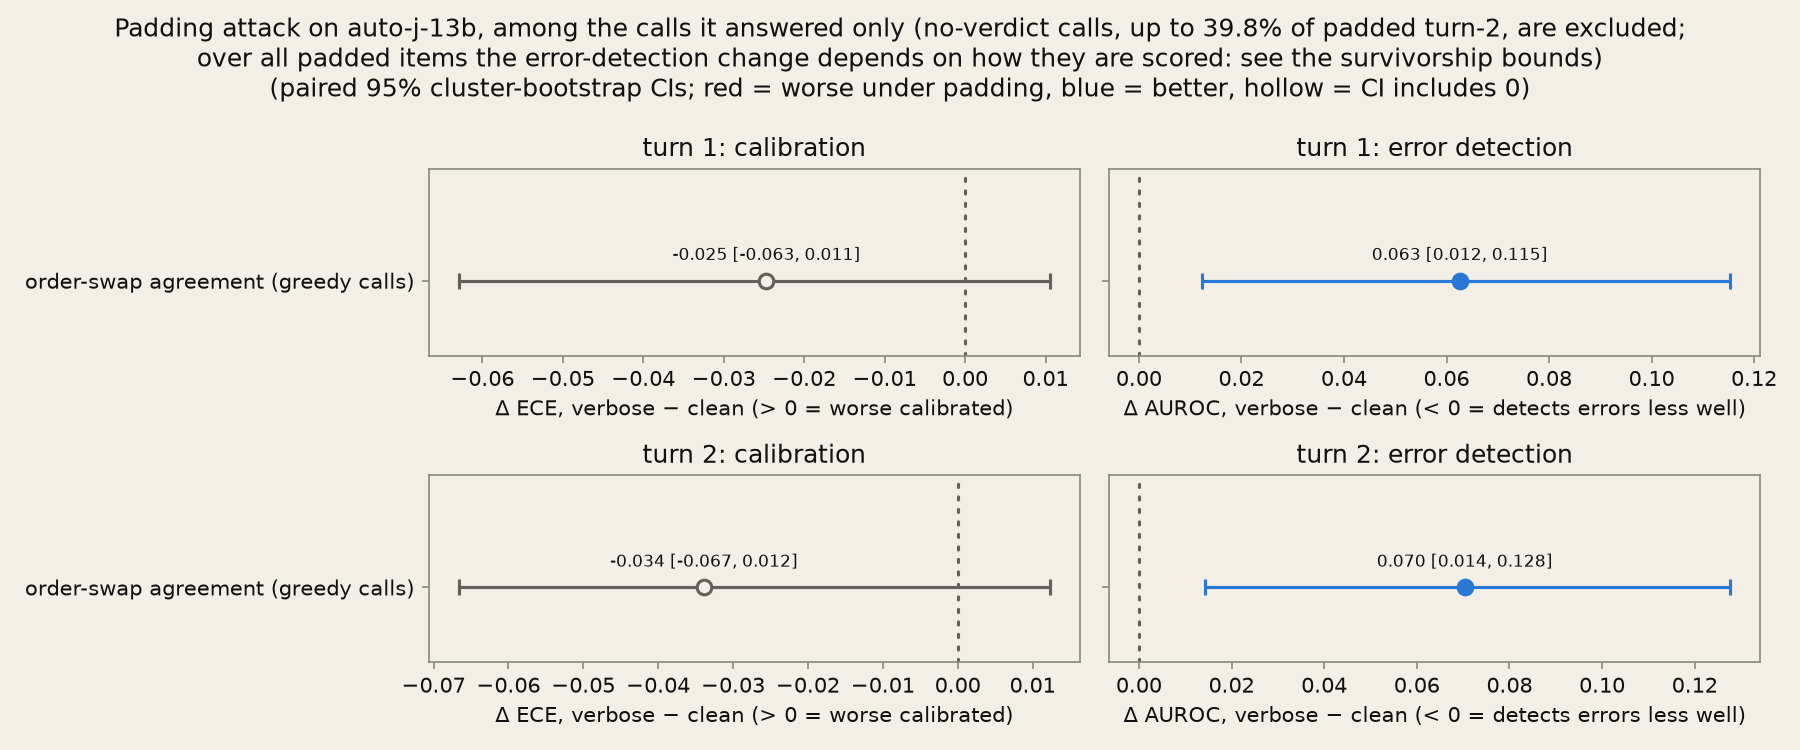
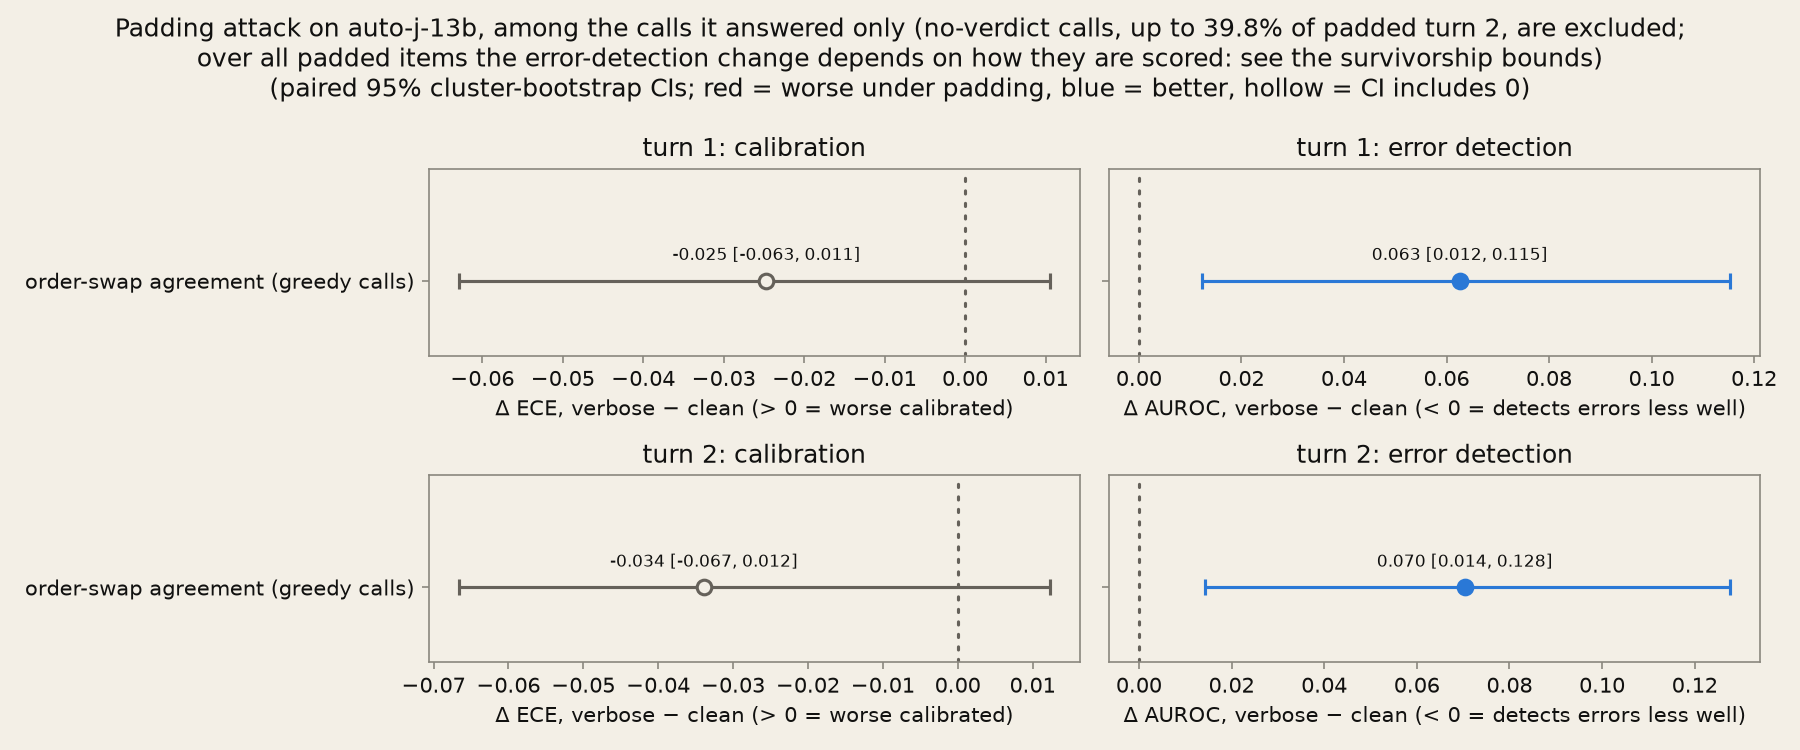
figure text updates

Changed region(s): [[0.0622, 0.0307, 0.9333, 0.0613]]

diff --git a/analysis/rq3.py b/analysis/rq3.py
@@ -28,7 +28,7 @@ import pandas as pd
 from analysis.rq1 import CALIBRATION_FORM, SIGNALS, load_rq1_items
 from src.boot import cluster_bootstrap, paired_cluster_bootstrap
 from src.config import Config
-from src.metrics import auroc_error, ece
+from src.metrics import auroc_error, brier, ece, overconfidence_gap
 from src.plots import judge_name, plot_confidence_gap, plot_verbosity_deltas
 
 RQ3B_SIGNALS = ["conf_verb", "conf_lp", "conf_bpe"]  # conf_sc dropped, D21
@@ -147,8 +147,19 @@ def compute_signal_rq3b_metrics(
         uncertainty = 1 - df[signal].to_numpy(dtype=float)
         return auroc_error(uncertainty, df[correct_col].to_numpy())
 
+    # Two calibration measures that use no bins, so a ΔECE finding can be
+    # checked against the binning (ECE moves with the bin count).
+    def _overconfidence_gap(df: pd.DataFrame) -> float:
+        return overconfidence_gap(df[calibration_col].to_numpy(dtype=float), df[correct_col].to_numpy())
+
+    def _brier(df: pd.DataFrame) -> float:
+        return brier(df[calibration_col].to_numpy(dtype=float), df[correct_col].to_numpy())
+
     result = {}
-    for name, fn in [("ece", _ece), ("accuracy", _accuracy), ("auroc", _auroc)]:
+    for name, fn in [
+        ("ece", _ece), ("accuracy", _accuracy), ("auroc", _auroc),
+        ("overconfidence_gap", _overconfidence_gap), ("brier", _brier),
+    ]:
         diff, ci_low, ci_high = paired_cluster_bootstrap(
             verbose_items, clean_items, fn, "question_id", n=2000, seed=seed
         )

diff --git a/analysis/rq7.py b/analysis/rq7.py
@@ -235,11 +235,15 @@ def main_verbosity(config_path: str) -> None:
     table.to_csv(table_path, index=False)
     print(f"Wrote {len(table)} rows to {table_path}")
 
+    # The title states how much of the padded data is missing, read from the
+    # calls themselves so it cannot drift from the no-verdict table.
+    failures = no_verdict_table(pd.read_parquet(config.paths.calls_parquet))
+    worst = failures[failures["condition"] == "verbose"].sort_values("rate").iloc[-1]
     for dark in (False, True):
         plot_verbosity_deltas(
             [verbosity_panel(t, f"turn {turn}") for turn, t in table.groupby("turn", sort=True)],
             title=("Padding attack on auto-j-13b, among the calls it answered only "
-                   "(no-verdict calls, up to 39.8% of padded turn-2, are excluded;\n"
+                   f"(no-verdict calls, up to {worst['rate']:.1%} of padded turn {int(worst['turn'])}, are excluded;\n"
                    "over all padded items the error-detection change depends on how they are scored: "
                    "see the survivorship bounds)"),
             filename=f"rq7_verbosity_deltas_{config.model_slug}.png",

diff --git a/REPRODUCE.md b/REPRODUCE.md
@@ -153,4 +153,5 @@ Because the NUTS seeds are fixed, the Bayesian results came out bit-identical on
 - **What changed:** the vacuum table gained its confidence-gap columns, with the existing values unchanged. Two outputs are new: `multivote_sensitivity_qwen2.5_7b_instruct.csv` and the two-call convergence figure.
 - **What stayed the same:** every other tracked output was byte-identical, including all RQ5 tables, and `site/data/` was unchanged.
 - **Figure wording:** titles and legends were brought in line with the report's current stance. Each figure's own task was rerun: `rq4` (`h4`, `calibration`, `bayesian_comparison`), `rq3`, `human_disagreement`, `rq6`/`rq7` (`position_swap`, and `verbosity` for rq7) and `auto_accept`. Only figure files changed; every CSV is byte-identical.
+- **Padding tables:** the RQ3 table gained the bin-free padding deltas (overconfidence gap, Brier) that REPORT quotes. So did the three tables built with the same function (`rq6_verbosity`, `rq7_verbosity`, `rq7_survivorship`). Every existing column is unchanged. The auto-j padding figure's title now reads its no-verdict rate from the data rather than from a fixed number.
 - **Three-judge figure:** `analysis.compare_judges` was rerun after a title correction. The old title, "same items", wrongly implied the three judges share a population. Only `judge_comparison.png` and its dark copy changed; `judge_comparison.csv` is byte-identical.

diff --git a/REPORT.md b/REPORT.md
@@ -739,7 +739,7 @@ ECE shifts are numerically negative but not significant. The ECE interval is
 skewed (most bootstrap replicates fall below the point), and ECE itself moves with
 the bin count, so the finding was checked on two measures that use no bins: the
 paired change in the overconfidence gap, +0.031 [0.012, 0.051], and in the Brier
-score, +0.018 [0.005, 0.032]. Both worsen significantly, so the conclusion does
+score, +0.018 [0.005, 0.032] (`rq3_table_qwen2.5_7b_instruct.csv`). Both worsen significantly, so the conclusion does
 not rest on the binning. Read together with RQ3a:
 position bias barely moves confidence at all (a ~2pp gap); verbosity moves accuracy
 even less, but erodes exactly the signal — cross-order agreement — that RQ1/RQ2
@@ -1260,7 +1260,7 @@ existing `d_human` machinery, not new statistical infrastructure.*
 (`src/data.py`), so *high* `d_human` means *strong consensus* (votes near
 0% or 100% for one side), not disagreement; the disagreement zone is *low*
 `d_human`, near the 50/50 split. This matches D23's framing and H4's result
-(the predictor's edge grows with human *consensus*). The test is therefore:
+(the predictor's edge is larger where humans *agreed*). The test is therefore:
 does aleatoric correlate *negatively* with `d_human` (high aleatoric where
 consensus is weak)?
 

diff --git a/DECISIONS.md b/DECISIONS.md
@@ -771,5 +771,14 @@ down before any of the checks were run.
   R-hat 1.008, lowest ESS 617. The figure is
   `rq5_bayesian_convergence_two_call_qwen2.5_7b_instruct.png`.
 
+**Also found in the final audit.** REPORT and README quote two bin-free checks on
+the padding result for `conf_bpe`:
+- the paired change in the overconfidence gap, +0.031 [0.012, 0.051];
+- the paired change in the Brier score, +0.018 [0.005, 0.032].
+
+No tracked code produced them. `analysis/rq3.py` now computes both deltas for every
+signal, with the same paired bootstrap as ΔECE. They reproduce exactly, and the
+table's existing columns are unchanged.
+
 Where: `src/perturb.py`, `src/vacuum_test.py`, `analysis/vacuum.py`,
-`analysis/rq5.py`.
+`analysis/rq3.py`, `analysis/rq5.py`.

diff --git a/README.md b/README.md
@@ -82,7 +82,8 @@ three judges, and it is interactive in section 04 of the site.
      AUROC on padded ones. Combining the signals buys no robustness.
    - An abstention policy tuned on clean data would lose reliability with no
      accuracy-side warning.
-   - The other two judges' calibration holds up under the same attack.
+   - The other two judges' calibration holds up under the same attack (auto-j's
+     only among the calls it answered; see point 6).
 4. **A learned meta-model adds little or nothing over the best single signal.**
    - For Qwen, the best meta-model scores +0.014 to +0.019 AUROC above the best
      single signal, scored on the same held-out folds, and that edge is not
